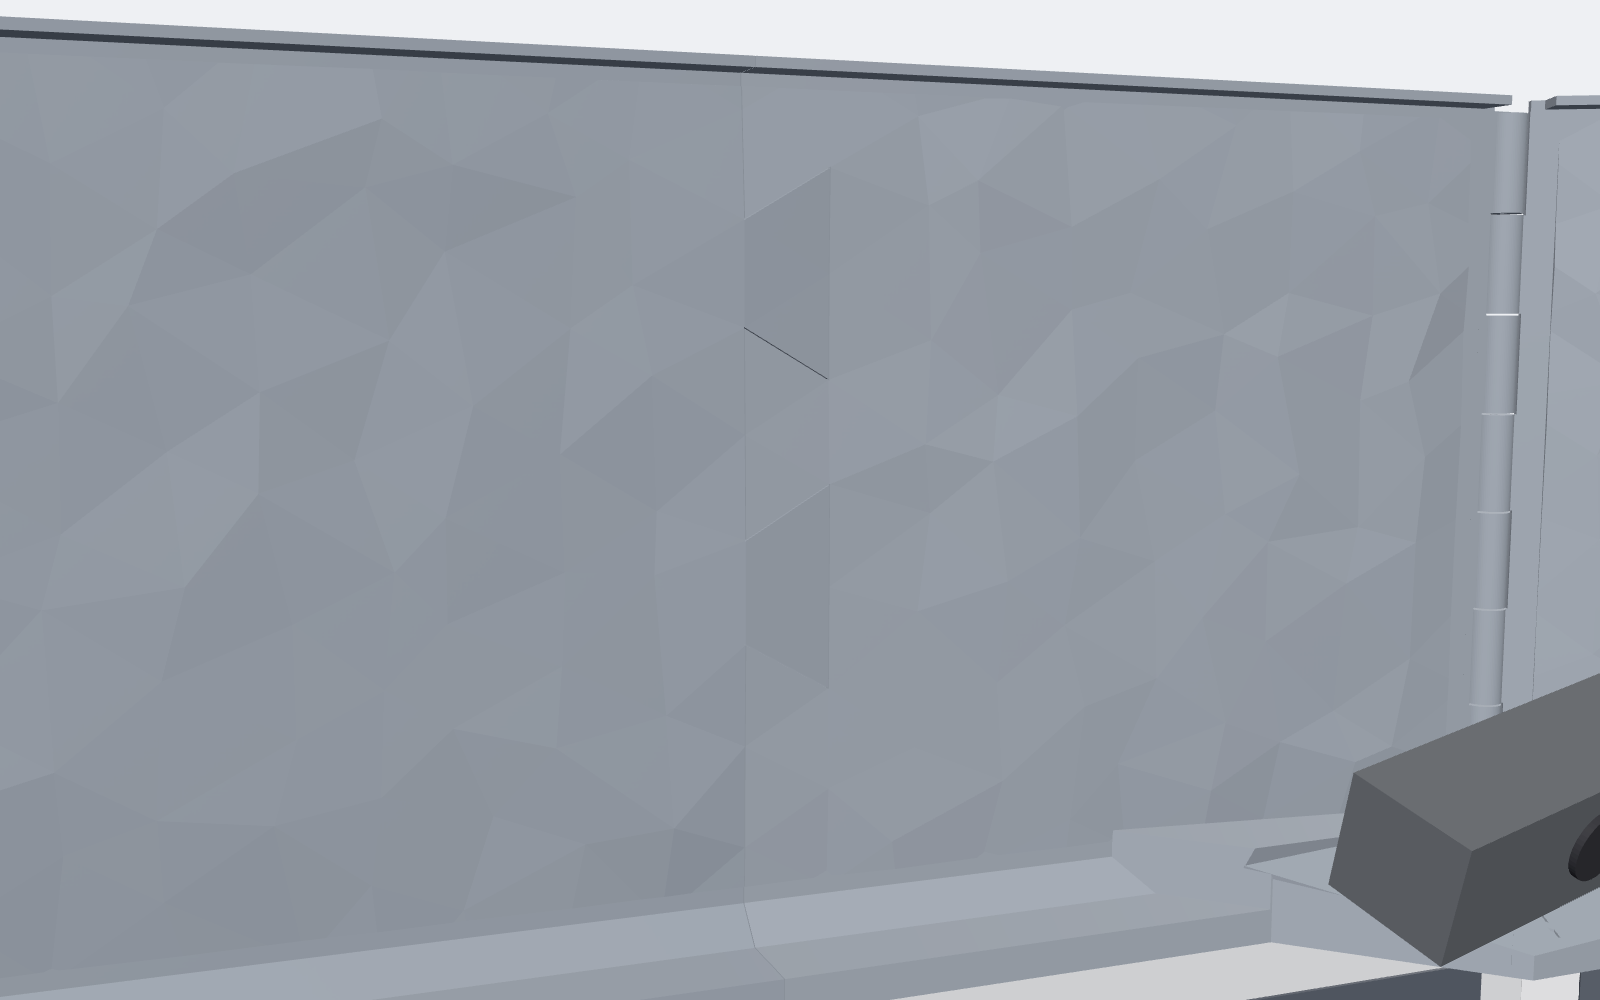
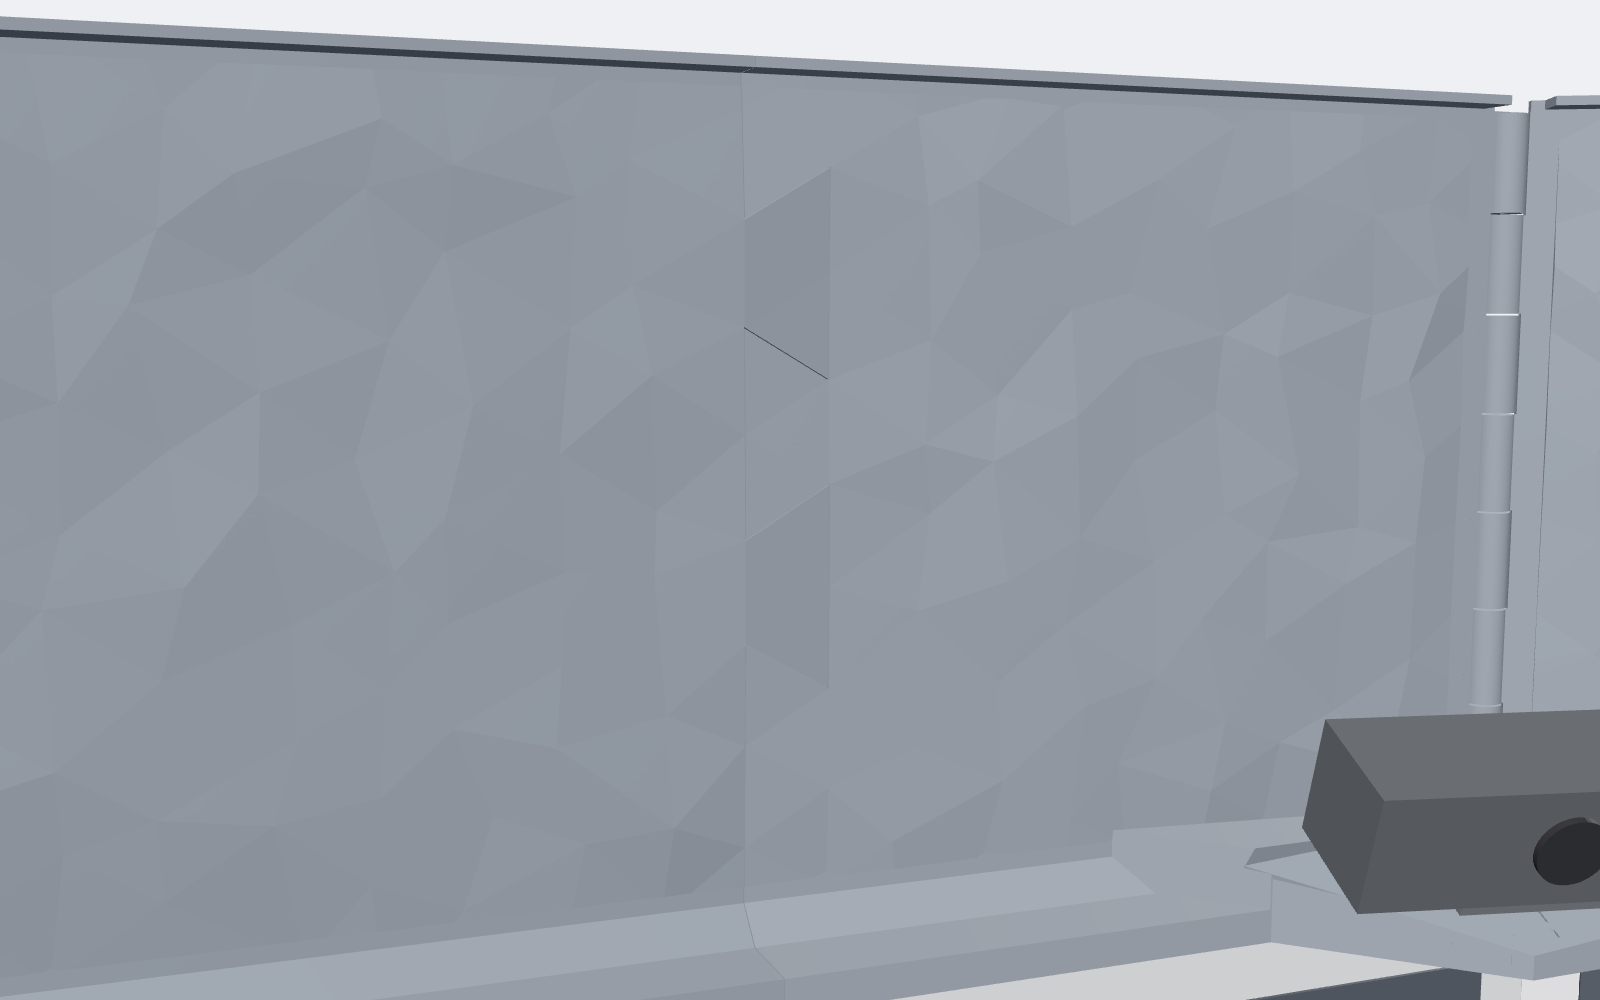
Viewer: turn the webcam stand-in the right way

Changed region(s): [[0.8438, 0.806, 1.0, 0.961], [0.8125, 0.713, 0.9375, 0.868], [0.9375, 0.682, 1.0, 0.713]]

diff --git a/src/check_cam.py b/src/check_cam.py
@@ -1,0 +1,21 @@
+"""Check the webcam stand-in: its lens faces your eyes and it sits flat (no roll)."""
+import math
+import numpy as np
+import build as B
+import export_view as EV
+
+body, foot, lens = [m for m, _ in EV.webcam_local()]
+# lens disc normal = facing direction (the face pointing away from the body)
+c_body, c_lens = body.centroid, lens.centroid
+face = c_lens - c_body
+face /= np.linalg.norm(face)
+t = math.radians(B.TOE_DEG)
+eye = np.array([B.MONITOR_W - B.EYE_DIST * math.sin(t), -B.EYE_DIST * math.cos(t), -B.SCREEN_CENTRE_DROP])
+to_eye = eye - c_lens
+to_eye /= np.linalg.norm(to_eye)
+print(f"camera facing vs direction to your eyes: {math.degrees(math.acos(np.clip(face @ to_eye, -1, 1))):.2f} deg off")
+# roll: the body's long axis (width) should stay horizontal
+pts = body.vertices - c_body
+u, s, vt = np.linalg.svd(pts, full_matrices=False)
+width_axis = vt[0]
+print(f"camera roll (long axis vs horizontal): {math.degrees(math.asin(abs(width_axis[2]))):.2f} deg")

diff --git a/src/export_view.py b/src/export_view.py
@@ -35,7 +35,8 @@ def webcam_local():
     lens = trimesh.creation.cylinder(radius=9, height=2, sections=48)
     lens.apply_transform(trimesh.transformations.rotation_matrix(np.pi / 2, [1, 0, 0]))
     lens.apply_translation([cx, cy - CAM_D / 2 - 0.9, z0 + 6 + (CAM_H - 6) / 2])
-    yaw = trimesh.transformations.rotation_matrix(B.SHELF_YAW, [0, 0, 1], [cx, cy, 0])
+    # SHELF_YAW > 0 turns the camera toward -X, which is a clockwise turn seen from above
+    yaw = trimesh.transformations.rotation_matrix(-B.SHELF_YAW, [0, 0, 1], [cx, cy, 0])
     T = np.vstack([B.tilt_matrix(B.WALL + B.SHELF_LIFT), [0, 0, 0, 1]])
     for m in (body, foot, lens):
         m.apply_transform(yaw)
